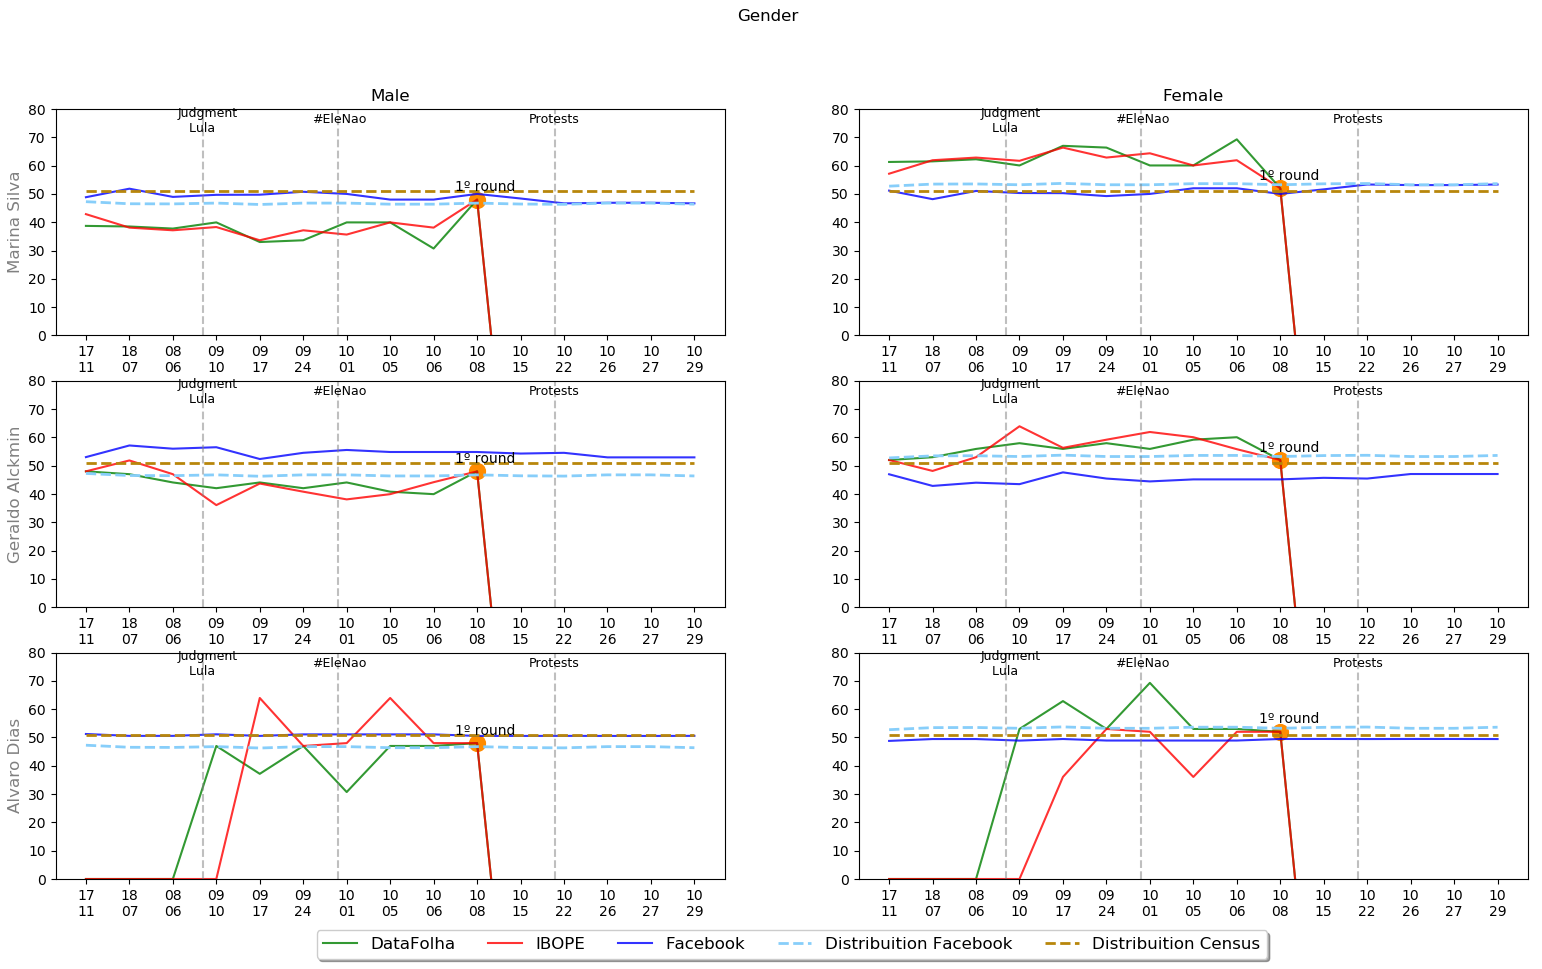
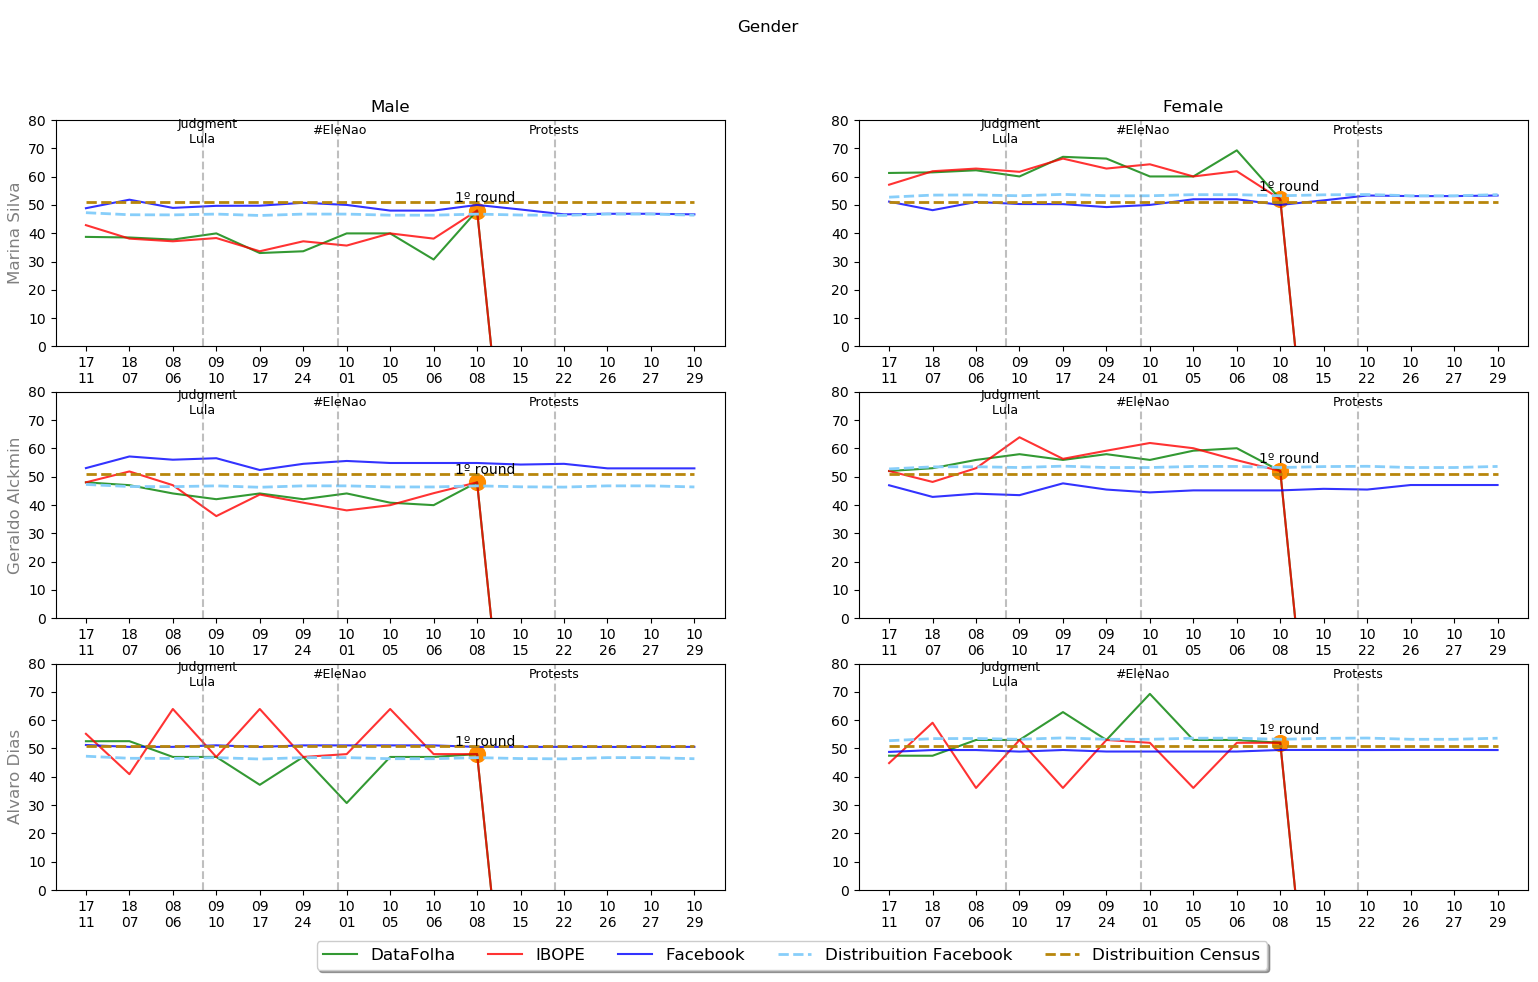
graph

diff --git a/Graphics/Code/graphic.py b/Graphics/Code/graphic.py
@@ -20,6 +20,8 @@ i_marina = models.return_index("Marina Silva")
 i_alckmin = models.return_index("Geraldo Alckmin")
 i_alvaro = models.return_index("Alvaro Dias")
 
+v_index = [i_bolsonaro, i_haddad, i_ciro, i_marina, i_alckmin, i_marina, i_alvaro]
+
 error_facebook_1round = []
 error_dfolha_1round = []
 error_ibope_1round = []
@@ -34,6 +36,15 @@ dic_color = {
         "Facebook": "blue",
         "Variation (DataFolha)":"green",
         "Variation (IBOPE)":"red"
+}
+
+dic_index = {
+        i_bolsonaro:"jair_bolsonaro",
+        i_haddad:"fernando_haddad",
+        i_ciro: "ciro_gomes",
+        i_marina:"marina_silva",
+        i_alckmin:"geraldo_alckmin",
+        i_alvaro:"alvaro_dias"
 }
 
 dic_lines = {
@@ -60,8 +71,8 @@ def calculate_correlattion(ibope, dfolha, facebook, resultado):
 def plot_graph_events(range_fim, graph_error = False):
 
     if(graph_error == True):
-        plt.text(x = 9 - 0.8, y = range_fim - (range_fim * 0.22), s = "End\n1º Round", size = 9)
-        plt.text(x = 14 - 0.8, y = range_fim -(range_fim * 0.22), s = "End\n2º Round", size = 9)  
+        plt.text(x = 9 - 0.8, y = range_fim - (range_fim * 0.20), s = "End\n1º Round", size = 9)
+        plt.text(x = 14 - 0.8, y = range_fim -(range_fim * 0.20), s = "End\n2º Round", size = 9)  
         plt.axvline(x=9, color='gray', linestyle='--', alpha=0.5)
         plt.axvline(x=14, color='gray', linestyle='--', alpha=0.5)
     else:
@@ -103,8 +114,8 @@ def get_error_agregatte(v_facebook, v_ibope, v_dfolha):
     if(v_ibope[14] != 0 and v_ibope[14] != -100):
         error_facebook_2round.append((abs((v_facebook[13] - v_ibope[14])) / v_ibope[14]) * 100)
         error_ibope_2round.append((abs((v_ibope[13] - v_ibope[14])) / v_ibope[14]) * 100)
-        error_dfolha_2round.append((abs((v_dfolha[13] - v_dfolha[14])) / v_dfolha[14]) * 100)    
-
+        error_dfolha_2round.append((abs((v_dfolha[13] - v_dfolha[14])) / v_dfolha[14]) * 100)   
+    
 def plot_table_error(name):
     fig = plt.figure()
 
@@ -203,7 +214,7 @@ def plot_graph(name, data_frame, line, col, range_ini, range_fim, count_x, first
                         plt.plot('x', g, data=d, color=dic_color[label[2]], ls='-', alpha=0.8, label=label[2])
                 else:
                     # marker='v',
-                    plt.plot('x', g, data=d, color=dic_color[label[2]], linewidth=2, linestyle='dashed', alpha=0.6, label=label[2])
+                    plt.plot('x', g, data=d, color=dic_color[label[2]], marker='X', linewidth=2, linestyle='dashed', alpha=0.6, label=label[2])
                     plt.axhline(y=0, color='blue', linestyle='-', alpha=0.9)
 
                     # text_1Round = str(round(d[g].values[9],1)) + " %"
@@ -225,14 +236,14 @@ def plot_graph(name, data_frame, line, col, range_ini, range_fim, count_x, first
                 #Setando Resultado
                 if(set_result_aux == True):  
                     if(plot_error == False):                        
-                        if(d[g].values[9] != -100 and d[g].values[9] != 0):
+                        if(d[g].values[9] != 0 and d[g].values[9] != -100):
                             plt.scatter(9, y = 0, color='lightskyblue', s=130, alpha=1, label="Error Facebook %") 
                             plt.text(x = 9 - 0.5 , y = 4, s = str(round(d[g].values[9],1)) + " %", size = 10)
                         if(d[g].values[14] != -100 and d[g].values[14] != 0):
                             plt.scatter(14, 0, color='lightskyblue', s=130, alpha=1)
                             plt.text(x = 14 - 0.5 , y = 4, s = str(round(d[g].values[14],1)) + " %", size = 10)
                        
-                    if(d[g].values[9] != -100 and d[g].values[9] != 0):
+                    if(d[g].values[9] != -100 ):
                         plt.scatter(9, d[g].values[9], color='darkorange', s=130, alpha=1, label=legend_result) 
                         plt.text(x = 9 - 0.5 , y =  d[g].values[9] + 3, s = text_1Round, size = 10)
                             
@@ -242,6 +253,7 @@ def plot_graph(name, data_frame, line, col, range_ini, range_fim, count_x, first
                     
                     set_result_aux = False
                                
+        #Calculando Error                               
         if(plot_error == True and len(v_facebook) > 0):
             variation_dfolha, variation_ibope = get_variation_graph(v_facebook, v_ibope, v_dfolha)            
             
@@ -263,7 +275,7 @@ def plot_graph(name, data_frame, line, col, range_ini, range_fim, count_x, first
                         v_error_pool_1round[1] = ((v_dfolha[8] - v_dfolha[9]) / v_dfolha[9]) * 100
                         v_error_pool_1round[0] = variation_dfolha[8]
 
-                    if(v_error_pool_2round[1] < ((v_dfolha[13] - v_dfolha[14]) / v_dfolha[14]) * 100 ) :
+                    if(v_error_pool_2round[1] < ((v_dfolha[13] - v_dfolha[14]) / v_dfolha[14]) * 100 ):
                         v_error_pool_2round[1] = ((v_dfolha[13] - v_dfolha[14]) / v_dfolha[14]) * 100
                         v_error_pool_2round[0] = variation_dfolha[13]
                 else:
@@ -281,9 +293,6 @@ def plot_graph(name, data_frame, line, col, range_ini, range_fim, count_x, first
                 label[0] + "-" + label[1] + "-Variation (DataFolha)": variation_dfolha, label[0] + "-" + label[1] + "-Variation (IBOPE)": variation_ibope,
                 "calc_1round_pool": v_error_pool_1round, "calc_2round_pool" : v_error_pool_2round
             }))
-
-        if(plot_error == True):
-            get_error_agregatte(v_facebook, v_ibope, v_dfolha)
 
         if(plot_event):
             plot_graph_events(range_fim)
@@ -310,9 +319,6 @@ def plot_graph(name, data_frame, line, col, range_ini, range_fim, count_x, first
     plt.suptitle(firstitle) 
     plt.savefig(name, dpi=100)
     
-    if(plot_error == True):
-        plot_table_error(name)
-
     return vector_dFrame
     # plot_graph_error(name.replace(".png","") + "_error.png", vector_dFrame, line, col, range_ini, range_fim, count_x, firstitle, set_subtitle, all_subtitle, set_result, figsizeX, figsizeY)
     # plt.legend(loc='upper center', bbox_to_anchor=(-0.1, -0.21), shadow=True, ncol=2)    
@@ -323,32 +329,45 @@ def plot_gender():
     error_1 = plot_graph("gender_1.png", GFrame.Gender.data_frame_1, 3, 2, 0, 80, count_x, "Gender", True, False, True, 19, 10, -0.1, -0.19)
     plot_graph("gender_1_error.png", error_1, 3, 2, -50, 50, count_x, "Variation Polls", True, False, True, 19, 10,-0.1, -0.19, False, False)
     error_2 = plot_graph("gender_2.png", GFrame.Gender.data_frame_2, 3, 2, 0, 80, count_x, "Gender", True, False, True, 19, 10, -0.1, -0.19)
-    plot_graph("gender_2_error.png", error_2, 3, 2, -40, 70, count_x, "Variation Polls", True, False, True, 19, 10, -0.1, -0.19, False, False)
-    
+    plot_graph("gender_2_error.png", error_2, 3, 2, -40, 90, count_x, "Variation Polls", True, False, True, 19, 10, -0.1, -0.19, False, False)    
+
+    for i in v_index:
+        get_error_agregatte(models.data_reader.candidates[i].facebook_male, models.data_reader.candidates[i].ibope_male, models.data_reader.candidates[i].dfolha_male)
+        get_error_agregatte(models.data_reader.candidates[i].facebook_female, models.data_reader.candidates[i].ibope_female, models.data_reader.candidates[i].dfolha_female)
+        plot_table_error("gender_" + dic_index[i] + "_error.png")
+   
 
 def plot_region():
         
     count_x = len(models.data_reader.candidates[i_bolsonaro].facebook_sul) 
 
     error_1 = plot_graph("region_bolsonaro.png", GFrame.Region.data_frame_bolsonaro, 2, 2, 5, 60, count_x, "Jair Bolsonaro", False, True, True, 18, 10, -0.1, -0.19)
-    plot_graph("region_bolsonaro_error.png", error_1, 2, 2, -50, 75, count_x, "Variation Polls", False, True, True, 18, 10, -0.1, -0.19, False, False)
+    plot_graph("region_bolsonaro_error.png", error_1, 2, 2, -50, 90, count_x, "Jair Bolsonaro - Variation Polls", False, True, True, 18, 10, -0.1, -0.19, False, False)
 
     error_2 = plot_graph("region_haddad.png", GFrame.Region.data_frame_haddad, 2, 2, 5, 90, count_x, "Fernando Haddad", False, True, True, 18, 10, -0.1, -0.19)
-    plot_graph("region_haddad_error.png", error_2, 2, 2, -75, 90, count_x, "Variation Polls", False, True, True, 18, 10, -0.1, -0.19, False, False)
+    plot_graph("region_haddad_error.png", error_2, 2, 2, -75, 90, count_x, "Fernando Haddad - Variation Polls", False, True, True, 18, 10, -0.1, -0.19, False, False)
 
     error_3 = plot_graph("region_ciro.png", GFrame.Region.data_frame_ciro, 2, 2, 5, 60, count_x, "Ciro Gomes", False, True, True, 18, 10, -0.1, -0.19)
-    plot_graph("region_ciro_error.png", error_3, 2, 2, -50, 125, count_x, "Variation Polls", False, True, True, 18, 10, -0.1, -0.19, False, False)
+    plot_graph("region_ciro_error.png", error_3, 2, 2, -50, 125, count_x, "Ciro Gomes - Variation Polls", False, True, True, 18, 10, -0.1, -0.19, False, False)
 
     error_4 = plot_graph("region_marina.png", GFrame.Region.data_frame_marina, 2, 2, 5, 60, count_x, "Marina Silva", False, True, True, 18, 10, -0.1, -0.19)
-    plot_graph("region_marina_error.png", error_4, 2, 2, -50, 150, count_x, "Variation Polls", False, True, True, 18, 10, -0.1, -0.19, False, False)
+    plot_graph("region_marina_error.png", error_4, 2, 2, -50, 150, count_x, "Marina Silva - Variation Polls", False, True, True, 18, 10, -0.1, -0.19, False, False)
 
     error_5 = plot_graph("region_alckmin.png", GFrame.Region.data_frame_alckmin, 2, 2, 5, 85, count_x, "Geraldo Alckmin", False, True, True, 18, 10, -0.1, -0.19)
-    plot_graph("region_alckmin_error.png", error_5, 2, 2, -50, 100, count_x, "Variation Polls", False, True, True, 18, 10, -0.1, -0.19, False, False)
+    plot_graph("region_alckmin_error.png", error_5, 2, 2, -50, 100, count_x, "Geraldo Alckmin - Variation Polls", False, True, True, 18, 10, -0.1, -0.19, False, False)
 
     error_6 = plot_graph("region_alvaro.png", GFrame.Region.data_frame_alvaro, 2, 2, 0, 70, count_x, "Alvaro Dias", False, True, True, 18, 10, -0.1, -0.19)
-    plot_graph("region_alvaro_error.png", error_6, 2, 2, -50, 130, count_x, "Variation Polls", False, True, True, 18, 10, -0.1, -0.19, False, False)
-
+    plot_graph("region_alvaro_error.png", error_6, 2, 2, -50, 200, count_x, "Alvaro Dias - Variation Polls", False, True, True, 18, 10, -0.1, -0.19, False, False)
+    
     # plot_graph("region_lula.png", data_frame_lula, 2, 2, 5, 60, count_x, "Lula", False, True, True, 18, 10)
+
+    for i in v_index:
+        get_error_agregatte(models.data_reader.candidates[i].facebook_nordeste, models.data_reader.candidates[i].ibope_nordeste, models.data_reader.candidates[i].dfolha_nordeste)
+        get_error_agregatte(models.data_reader.candidates[i].facebook_norte_coeste, models.data_reader.candidates[i].ibope_norte_coeste, models.data_reader.candidates[i].dfolha_norte_coeste)
+        get_error_agregatte(models.data_reader.candidates[i].facebook_sul, models.data_reader.candidates[i].ibope_sul, models.data_reader.candidates[i].dfolha_sul)
+        get_error_agregatte(models.data_reader.candidates[i].facebook_sudeste, models.data_reader.candidates[i].ibope_sudeste, models.data_reader.candidates[i].dfolha_sudeste)
+        plot_table_error("region_" + dic_index[i] + "_error.png")
+
 
 def plot_like():
         
@@ -445,23 +464,31 @@ def plot_age():
     # bbox_to_anchor=(1.2, -0.21),
 
     error_1 = plot_graph("age_bolsonaro.png", GFrame.Age.data_frame_bolsonaro, 3, 2, 0, 100, count_x, "Jair Bolsonaro", False, True, True, 18, 10, 1.2, -0.21, True, True, 0.4)
-    plot_graph("age_bolsonaro_error.png", error_1, 3, 2, -100, 200, count_x, "Variation Polls", True, False, True, 18, 10, 1.2, -0.21, False, False, 0.4)    
+    plot_graph("age_bolsonaro_error.png", error_1, 3, 2, -100, 200, count_x, "Jair Bolsonaro - Variation Polls", False, True, True, 18, 10, 1.2, -0.21, False, False, 0.4)    
     
     error_2 = plot_graph("age_haddad.png", GFrame.Age.data_frame_haddad, 3, 2, 0, 60, count_x, "Fernando Haddad", False, True, True, 18, 10, 1.2, -0.21, True, True, 0.4)  
-    plot_graph("age_haddad_error.png", error_2, 3, 2, -90, 250, count_x, "Variation Polls", True, False, True, 18, 10, 1.2, -0.21, False, False, 0.4)   
+    plot_graph("age_haddad_error.png", error_2, 3, 2, -90, 250, count_x, "Fernando Haddad - Variation Polls", False, True, True, 18, 10, 1.2, -0.21, False, False, 0.4)   
 
     error_3 = plot_graph("age_ciro.png", GFrame.Age.data_frame_ciro, 3, 2, 0, 60, count_x, "Ciro Gomes", False, True, True, 18, 10, 1.2, -0.21, True, True, 0.4)
-    plot_graph("age_ciro_error.png", error_3, 3, 2, -80, 200, count_x, "Variation Polls", True, False, True, 18, 10, 1.2, -0.21, False, False, 0.4)
+    plot_graph("age_ciro_error.png", error_3, 3, 2, -80, 200, count_x, "Ciro Gomes - Variation Polls", False, True, True, 18, 10, 1.2, -0.21, False, False, 0.4)
 
     error_4 = plot_graph("age_marina.png", GFrame.Age.data_frame_marina, 3, 2, 0, 60, count_x, "Marina Silva", False, True, True, 18, 10, 1.2, -0.21, True, True, 0.4)
-    plot_graph("age_marina_error.png", error_4, 3, 2, -70, 100, count_x, "Variation Polls", False, True, True, 18, 10, 1.2, -0.21, False, False, 0.4)
+    plot_graph("age_marina_error.png", error_4, 3, 2, -70, 100, count_x, "Marina Silva - Variation Polls", False, True, True, 18, 10, 1.2, -0.21, False, False, 0.4)
 
     error_5 = plot_graph("age_alckmin.png", GFrame.Age.data_frame_alckmin, 3, 2, 0, 60, count_x, "Geraldo Alckmin", False, True, True, 18, 10, 1.2, -0.21, True, True, 0.4)
-    plot_graph("age_alckmin_error.png", error_5, 3, 2, -50, 75, count_x, "Variation Polls", True, False, True, 18, 10, 1.2, -0.21, False, False, 0.4)
+    plot_graph("age_alckmin_error.png", error_5, 3, 2, -50, 75, count_x, "Geraldo Alckmin - Variation Polls", False, True, True, 18, 10, 1.2, -0.21, False, False, 0.4)
 
     error_6 = plot_graph("age_alvaro.png", GFrame.Age.data_frame_alvaro, 3, 2, 0, 60, count_x, "Alvaro Dias", False, True, True, 18, 10, 1.2, -0.21, True, True, 0.4)
-    plot_graph("age_alvaro_error.png", error_6, 3, 2, -150, 200, count_x, "Variation Polls", True, False, True, 18, 10, 1.2, -0.21, False, False, 0.4)
+    plot_graph("age_alvaro_error.png", error_6, 3, 2, -150, 200, count_x, "Alvaro Dias - Variation Polls", False, True, True, 18, 10, 1.2, -0.21, False, False, 0.4)
     # plot_graph("age_lula.png", data_frame_lula, 3, 2, 0, 60, count_x, "Lula", False, True, True, 18, 10, 0.4)
+
+    for i in v_index:
+        get_error_agregatte(models.data_reader.candidates[i].facebook_16a24, models.data_reader.candidates[i].ibope_16a24, models.data_reader.candidates[i].dfolha_16a24)
+        get_error_agregatte(models.data_reader.candidates[i].facebook_25a34, models.data_reader.candidates[i].ibope_25a34, models.data_reader.candidates[i].dfolha_25a34)
+        get_error_agregatte(models.data_reader.candidates[i].facebook_35a44, models.data_reader.candidates[i].ibope_35a44, models.data_reader.candidates[i].dfolha_35a44)
+        get_error_agregatte(models.data_reader.candidates[i].facebook_45a54, models.data_reader.candidates[i].ibope_45a54, models.data_reader.candidates[i].dfolha_45a54)
+        get_error_agregatte(models.data_reader.candidates[i].facebook_55, models.data_reader.candidates[i].ibope_55, models.data_reader.candidates[i].dfolha_55)
+        plot_table_error("age_" + dic_index[i] + "_error.png")
 
     # plot_graph("age_bolsonaro.png", GFrame.Age.data_frame_bolsonaro, 3, 2, 0, 60, count_x, "Jair Bolsonaro", False, True, True, 18, 10, 0.4)
     # plot_graph("age_haddad.png", GFrame.Age.data_frame_haddad, 3, 2, 0, 60, count_x, "Fernando Haddad", False, True, True, 18, 10, 0.4)    
@@ -479,3 +506,9 @@ def plot_education():
 
     error_2 = plot_graph("education_2.png", GFrame.Education.data_frame2, 3, 3, 0, 75, count_x, "Education", True, False, True, 18, 10, -0.7, -0.19)  
     plot_graph("education_2_error.png", error_2, 3, 3, -100, 150, count_x, "Variation Polls", True, False, True, 18, 10, -0.7, -0.21, False, False, False) 
+
+    for i in v_index:
+        get_error_agregatte(models.data_reader.candidates[i].facebook_fundamental, models.data_reader.candidates[i].ibope_fundamental, models.data_reader.candidates[i].dfolha_fundamental)
+        get_error_agregatte(models.data_reader.candidates[i].facebook_medio, models.data_reader.candidates[i].ibope_medio, models.data_reader.candidates[i].dfolha_medio)
+        get_error_agregatte(models.data_reader.candidates[i].facebook_superior, models.data_reader.candidates[i].ibope_superior, models.data_reader.candidates[i].dfolha_superior)
+        plot_table_error("education_" + dic_index[i] + "_error.png")
